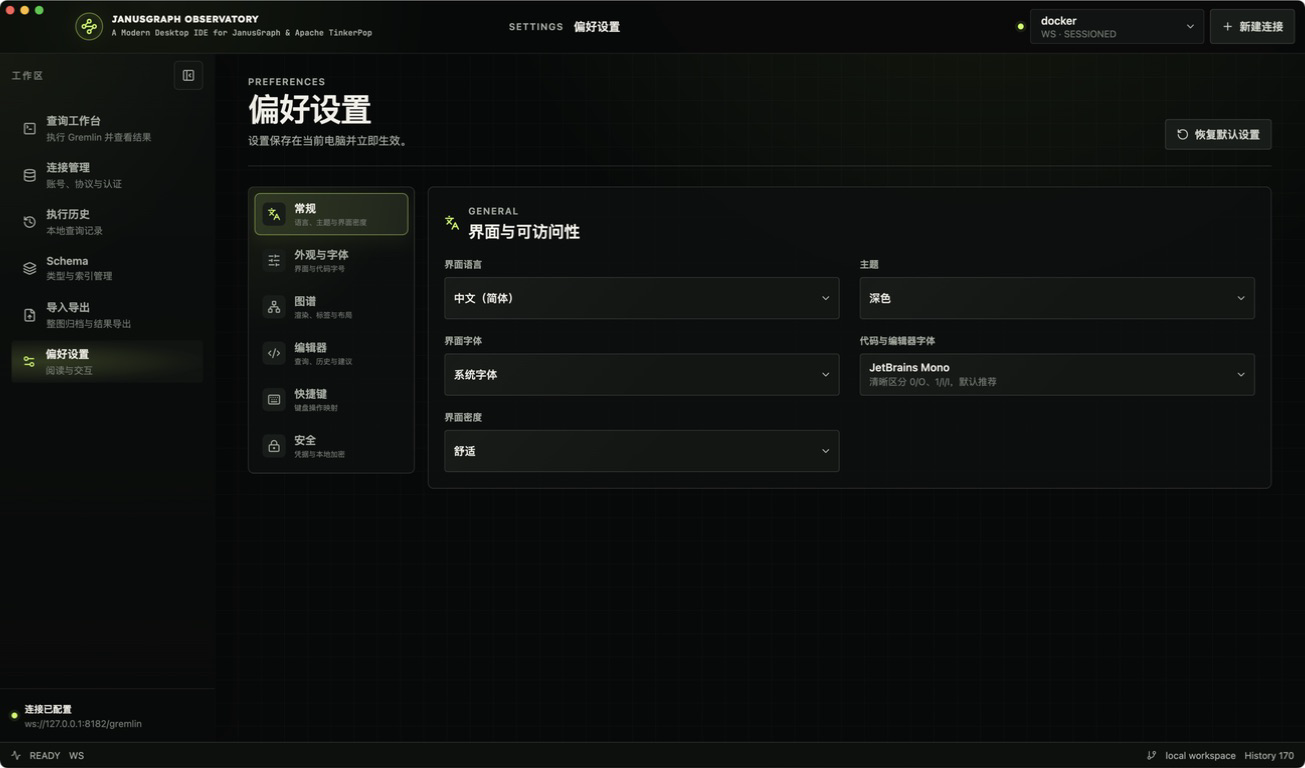
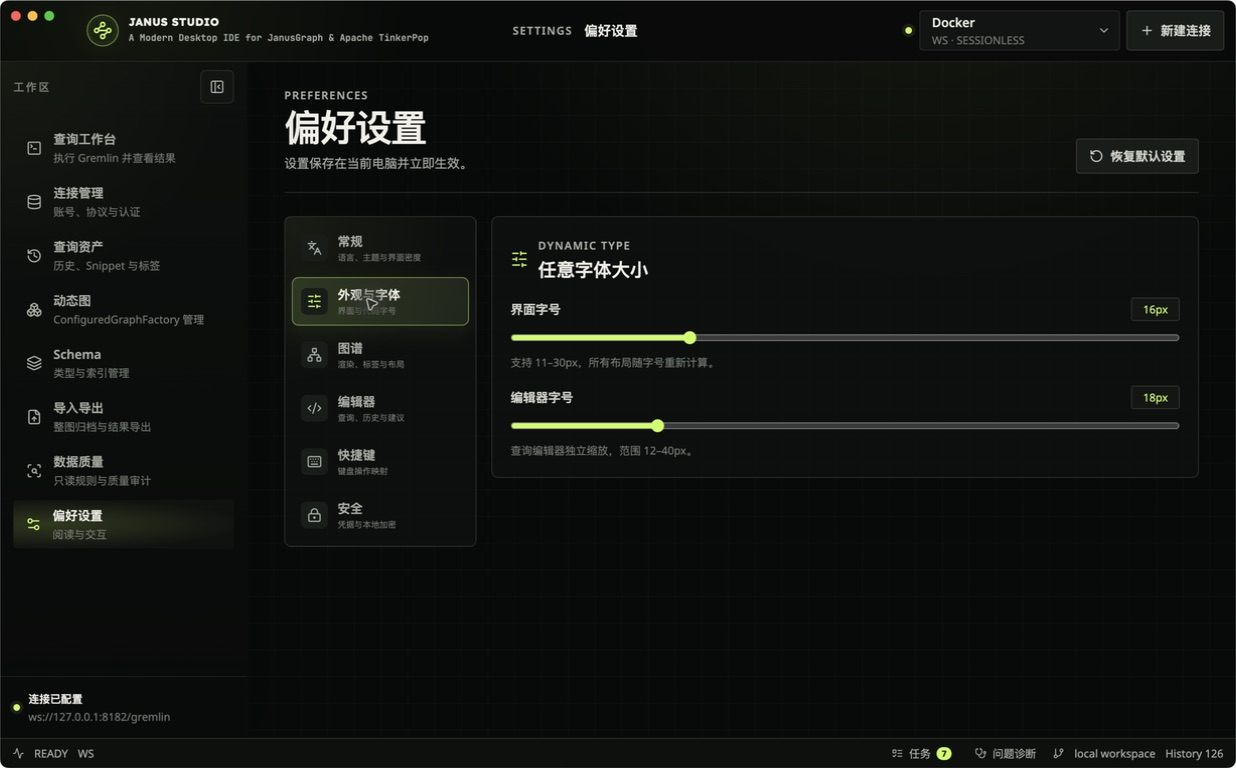
docs: refresh product screenshots

diff --git a/tests/unit/renderer-architecture.test.ts b/tests/unit/renderer-architecture.test.ts
@@ -73,6 +73,34 @@ test("gives every native text field a theme-aware fallback surface", async () =>
   assert.match(foundation, /-webkit-text-fill-color:\s*var\(--bone\)/);
 });
 
+test("keeps the connection search focus ring on the complete control", async () => {
+  const styles = await readFile(`${rendererRoot}/styles/connection-management.css`, "utf8");
+
+  assert.match(
+    styles,
+    /\.connection-search:focus-within\s*\{[^}]*border-color:[^}]*box-shadow:/s,
+  );
+  assert.match(
+    styles,
+    /\.connection-search input,[\s\S]*?\.connection-search input:focus-visible\s*\{[^}]*border:\s*0\s*!important[^}]*outline:\s*0\s*!important[^}]*box-shadow:\s*none\s*!important/s,
+  );
+});
+
+test("keeps dynamic graph title actions complete inside the detail pane", async () => {
+  const styles = await readFile(`${rendererRoot}/styles/feature-pages.css`, "utf8");
+  const foundation = await readFile(`${rendererRoot}/styles/foundation.css`, "utf8");
+
+  assert.match(
+    styles,
+    /\.factory-graph-detail\s*>\s*header\s*\{\s*align-items:\s*center;\s*flex-wrap:\s*wrap;\s*\}/s,
+  );
+  assert.match(
+    styles,
+    /\.factory-detail-primary-actions\s*\{[^}]*flex:\s*1\s+1\s+540px[^}]*flex-wrap:\s*wrap[^}]*align-items:\s*center/s,
+  );
+  assert.match(foundation, /\.button\s*\{[^}]*align-items:\s*center[^}]*white-space:\s*nowrap/s);
+});
+
 test("keeps dynamic graph capability probing stable across parent renders", async () => {
   const page = await readFile(
     `${rendererRoot}/features/graph-factory/GraphFactoryPage.tsx`,

diff --git a/apps/desktop/src/renderer/styles/feature-pages.css b/apps/desktop/src/renderer/styles/feature-pages.css
@@ -772,7 +772,13 @@
   border-bottom: 1px solid var(--line);
   background: var(--surface-2);
 }
-
+.factory-graph-detail > header { align-items: center; flex-wrap: wrap; }
+.factory-graph-detail > header > div:first-child {
+  display: grid;
+  flex: 1 1 280px;
+  min-width: 0;
+  align-content: center;
+}
 .factory-template-panel h2,
 .factory-graphs-section h2,
 .factory-graph-detail h3 {
@@ -799,7 +805,8 @@
 
 .factory-detail-primary-actions {
   display: flex;
-  flex: 0 0 auto;
+  flex: 1 1 540px;
+  min-width: 0;
   flex-wrap: wrap;
   align-items: center;
   justify-content: flex-end;
@@ -930,6 +937,7 @@
 .factory-detail-title {
   display: flex;
   min-width: 0;
+  flex-wrap: wrap;
   align-items: center;
   gap: 8px;
 }
@@ -1568,6 +1576,11 @@
   .factory-editor-actions,
   .factory-detail-primary-actions {
     justify-content: flex-start;
+  }
+
+  .factory-detail-primary-actions {
+    width: 100%;
+    flex-basis: auto;
   }
 
   .factory-graph-layout {

diff --git a/apps/desktop/src/renderer/styles/connection-management.css b/apps/desktop/src/renderer/styles/connection-management.css
@@ -25,18 +25,22 @@
 
 .connection-search:focus-within {
   color: var(--acid);
-  border-color: color-mix(in srgb, var(--acid) 42%, var(--line));
+  border-color: color-mix(in srgb, var(--acid) 64%, var(--line));
+  box-shadow: 0 0 0 3px color-mix(in srgb, var(--acid) 12%, transparent);
 }
 
-.connection-search input {
+.connection-search input,
+.connection-search input:focus,
+.connection-search input:focus-visible {
   width: 100%;
   min-width: 0;
   height: 44px;
   padding: 0;
-  border: 0;
-  outline: 0;
+  border: 0 !important;
+  outline: 0 !important;
   color: var(--bone);
   background: transparent;
+  box-shadow: none !important;
 }
 
 .connection-group-filter {

diff --git a/README.md b/README.md
@@ -53,13 +53,34 @@ one native desktop application.
 
 ## Screenshots
 
-**Gremlin query workbench**
+Every graph-aware screenshot uses `janus_studio_gods`, a dynamic graph created
+through `ConfiguredGraphFactory` and initialized with JanusGraph's Graph of the
+Gods example (12 vertices and 17 edges). The complete gallery was recaptured
+from the same packaged macOS build connected to a local Docker environment;
+credentials are not shown.
 
-![Gremlin query workbench in Janus Studio](docs/assets/screenshots/query-workbench.png)
-
-**Preferences**
-
-![Preferences in Janus Studio](docs/assets/screenshots/preferences.png)
+<table>
+  <tr>
+    <td width="50%"><strong>Gremlin query workbench</strong><br /><img src="docs/assets/screenshots/query-workbench.png" alt="Gremlin query workbench showing the Graph of the Gods topology" width="100%" /></td>
+    <td width="50%"><strong>Connection management</strong><br /><img src="docs/assets/screenshots/connections.png" alt="JanusGraph connection management workspace configured for janus_studio_gods" width="100%" /></td>
+  </tr>
+  <tr>
+    <td width="50%"><strong>Query assets</strong><br /><img src="docs/assets/screenshots/query-assets.png" alt="Query history for janus_studio_gods with snippets, folders, and tags" width="100%" /></td>
+    <td width="50%"><strong>ConfiguredGraphFactory</strong><br /><img src="docs/assets/screenshots/dynamic-graphs.png" alt="ConfiguredGraphFactory management for janus_studio_gods" width="100%" /></td>
+  </tr>
+  <tr>
+    <td width="50%"><strong>Schema management</strong><br /><img src="docs/assets/screenshots/schema-management.png" alt="Schema labels, property keys, and indexes for janus_studio_gods" width="100%" /></td>
+    <td width="50%"><strong>Whole-graph import and export</strong><br /><img src="docs/assets/screenshots/data-transfer.png" alt="GraphSON transfer workspace targeting janus_studio_gods" width="100%" /></td>
+  </tr>
+  <tr>
+    <td width="50%"><strong>Data quality audits</strong><br /><img src="docs/assets/screenshots/data-quality.png" alt="Read-only data quality rules targeting janus_studio_gods" width="100%" /></td>
+    <td width="50%"><strong>Troubleshooting</strong><br /><img src="docs/assets/screenshots/diagnostics.png" alt="Evidence-based troubleshooting and diagnostic records" width="100%" /></td>
+  </tr>
+  <tr>
+    <td width="50%"><strong>Preferences</strong><br /><img src="docs/assets/screenshots/preferences.png" alt="Janus Studio preferences" width="100%" /></td>
+    <td width="50%"></td>
+  </tr>
+</table>
 
 ## Platform support
 
@@ -167,9 +188,11 @@ queries.
 
 ### Data migration
 
-Whole-graph import and export are intended for small and medium-sized migrations,
-with a 200 MB archive limit. For production-scale migration, use JanusGraph bulk
-loading, Hadoop/ETL, or a cluster-side job.
+Janus Studio archives split and process graph data in batches without requiring
+users to divide files manually. Server-side GraphSON transfer is available for
+large graphs and long-running migrations. For production-scale loading, review
+JanusGraph batch-loading, Hadoop/ETL, and cluster resource limits before running
+the job.
 
 ### Credentials
 

diff --git a/README.zh-CN.md b/README.zh-CN.md
@@ -44,13 +44,33 @@ JanusGraph 及兼容 Apache TinkerPop 的图数据库。它将 Gremlin 智能编
 
 ## 应用截图
 
-**Gremlin 查询工作台**
+所有包含图上下文的截图均使用 `janus_studio_gods` 动态图：该图通过
+`ConfiguredGraphFactory` 创建，并使用 JanusGraph 官方 Graph of the Gods 示例
+初始化，包含 12 个顶点和 17 条边。整组截图由同一个连接本机 Docker 环境的
+macOS 生产包重新生成，未展示任何凭据。
 
-![Janus Studio Gremlin 查询工作台](docs/assets/screenshots/query-workbench.png)
-
-**偏好设置**
-
-![Janus Studio 偏好设置](docs/assets/screenshots/preferences.png)
+<table>
+  <tr>
+    <td width="50%"><strong>Gremlin 查询工作台</strong><br /><img src="docs/assets/screenshots/query-workbench.png" alt="展示 Graph of the Gods 拓扑的 Gremlin 查询工作台" width="100%" /></td>
+    <td width="50%"><strong>连接管理</strong><br /><img src="docs/assets/screenshots/connections.png" alt="配置为 janus_studio_gods 的 JanusGraph 连接管理工作区" width="100%" /></td>
+  </tr>
+  <tr>
+    <td width="50%"><strong>查询资产</strong><br /><img src="docs/assets/screenshots/query-assets.png" alt="janus_studio_gods 查询历史、Snippet、文件夹与标签" width="100%" /></td>
+    <td width="50%"><strong>ConfiguredGraphFactory 动态图</strong><br /><img src="docs/assets/screenshots/dynamic-graphs.png" alt="janus_studio_gods 的 ConfiguredGraphFactory 动态图管理" width="100%" /></td>
+  </tr>
+  <tr>
+    <td width="50%"><strong>Schema 管理</strong><br /><img src="docs/assets/screenshots/schema-management.png" alt="janus_studio_gods 的 Schema 标签、属性键与索引管理" width="100%" /></td>
+    <td width="50%"><strong>整图导入导出</strong><br /><img src="docs/assets/screenshots/data-transfer.png" alt="目标为 janus_studio_gods 的 GraphSON 迁移工作区" width="100%" /></td>
+  </tr>
+  <tr>
+    <td width="50%"><strong>数据质量检查</strong><br /><img src="docs/assets/screenshots/data-quality.png" alt="目标为 janus_studio_gods 的只读数据质量规则" width="100%" /></td>
+    <td width="50%"><strong>问题诊断</strong><br /><img src="docs/assets/screenshots/diagnostics.png" alt="基于证据的问题诊断与诊断记录" width="100%" /></td>
+  </tr>
+  <tr>
+    <td width="50%"><strong>偏好设置</strong><br /><img src="docs/assets/screenshots/preferences.png" alt="Janus Studio 偏好设置" width="100%" /></td>
+    <td width="50%"></td>
+  </tr>
+</table>
 
 ## 平台支持
 
@@ -147,8 +167,9 @@ design-system/          视觉系统与页面规则
 
 ### 数据迁移
 
-整图导入导出面向中小规模迁移，单个归档上限为 200 MB。生产级或超大规模迁移应使用
-JanusGraph Bulk Loading、Hadoop/ETL 或集群侧作业。
+Janus Studio 归档会自动分批处理图数据，不要求用户手工切割文件；大型图和长时间迁移可使用
+服务端 GraphSON 通道。生产级批量加载前，仍应评估 JanusGraph Batch Loading、Hadoop/ETL
+以及集群资源上限。
 
 ### 凭据安全
 
